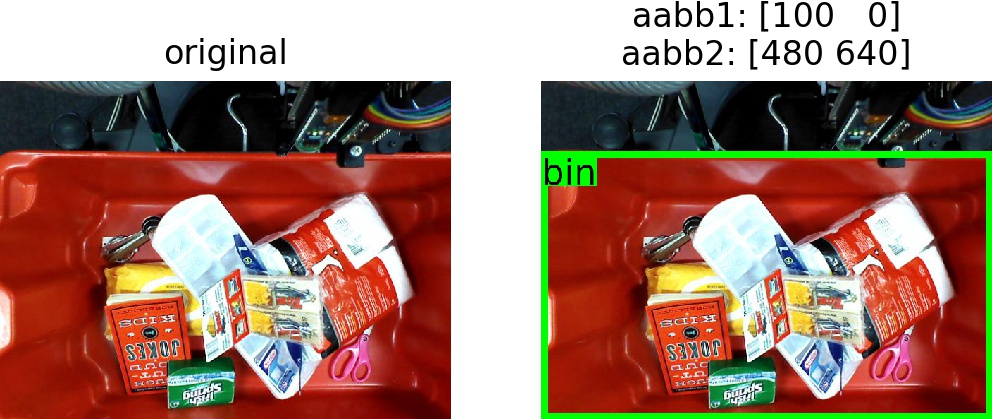
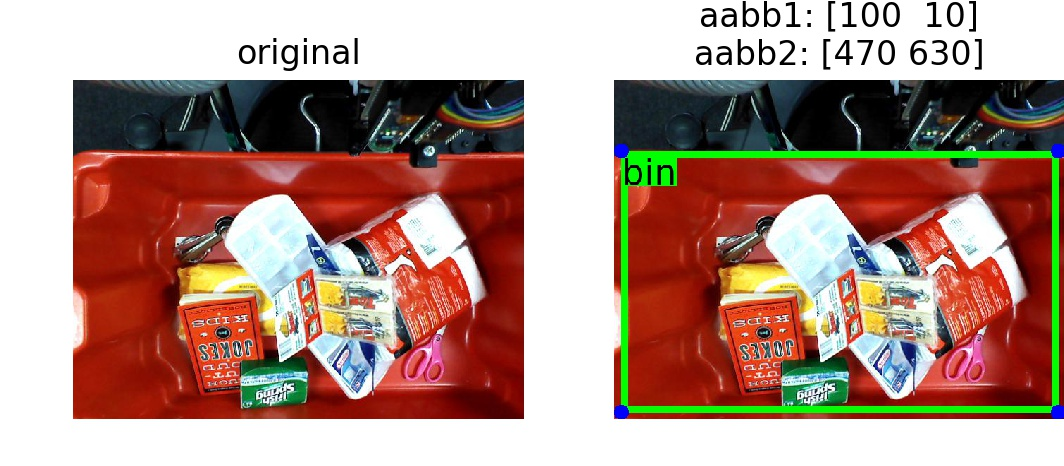
Add draw.circle

diff --git a/imgviz/draw.py b/imgviz/draw.py
@@ -7,6 +7,45 @@ import PIL.ImageDraw
 import PIL.ImageFont
 
 
+def circle(src, center, diameter, fill=None, outline=None, width=0):
+    '''Draw circle on numpy array with Pillow.
+
+    Parameters
+    ----------
+    src: numpy.ndarray
+        Input image.
+    center: (2,) array-like
+        center is (cy, cx).
+    fill: (3,) array-like, optional
+        RGB color to fill the circle. None for no fill. (default: None)
+    outline: (3,) array-like, optional
+        RGB color to draw the outline.
+    width: int, optional
+        Rectangle line width. (default: 0)
+
+    Returns
+    -------
+    dst: numpy.ndarray
+        Output image.
+    '''
+    dst = PIL.Image.fromarray(src)
+    draw = PIL.ImageDraw.Draw(dst)
+
+    cy, cx = center
+
+    radius = diameter / 2
+    x1 = cx - radius
+    x2 = x1 + diameter
+    y1 = cy - radius
+    y2 = y1 + diameter
+
+    draw.ellipse([x1, y1, x2, y2], fill=fill, outline=outline, width=width)
+
+    dst = np.asarray(dst)
+    dst.setflags(write=True)
+    return dst
+
+
 def rectangle(src, aabb1, aabb2, fill=None, outline=None, width=0):
     '''Draw rectangle on numpy array with Pillow.
 
@@ -43,6 +82,7 @@ def rectangle(src, aabb1, aabb2, fill=None, outline=None, width=0):
     )
 
     dst = np.asarray(src_pil)
+    dst.setflags(write=True)
     return dst
 
 
@@ -111,6 +151,7 @@ def text(src, yx, text, size, color=(0, 0, 0)):
     draw.text(xy=(x1, y1), text=text, fill=color, font=font)
 
     dst = np.asarray(src_pil)
+    dst.setflags(write=True)
     return dst
 
 

diff --git a/examples/draw.py b/examples/draw.py
@@ -14,12 +14,11 @@ if __name__ == '__main__':
 
     rgb = data['rgb']
 
-    aabb1 = np.array([100, 0], dtype=int)
-    aabb2 = np.array([480, 640], dtype=int)
+    aabb1 = np.array([100, 10], dtype=int)
+    aabb2 = np.array([470, 630], dtype=int)
     viz = imgviz.draw.rectangle(
         rgb, aabb1, aabb2, outline=(0, 255, 0), width=10
     )
-    viz = viz.copy()  # to make it writable
 
     y1, x1 = aabb1
     y2, x2 = aabb2
@@ -30,6 +29,12 @@ if __name__ == '__main__':
         size=50,
         background=(0, 255, 0),
     )
+
+    height, width = aabb2 - aabb1
+    for center in [aabb1, aabb1 + (0, width), aabb2, aabb2 - (0, width)]:
+        viz = imgviz.draw.circle(
+            viz, center=center, diameter=20, fill=(0, 0, 255)
+        )
 
     # -------------------------------------------------------------------------
 
